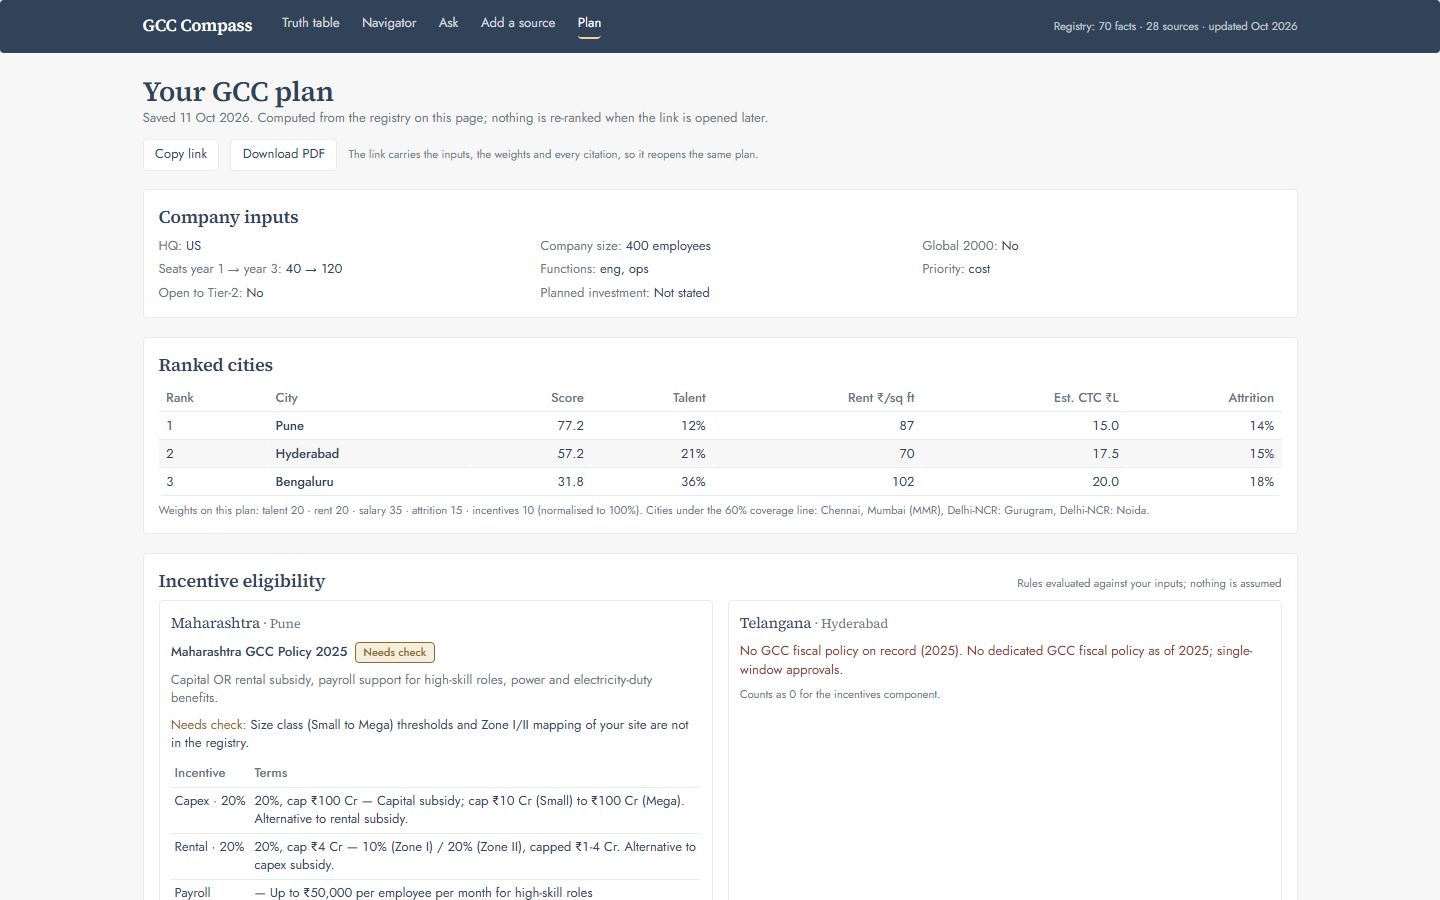
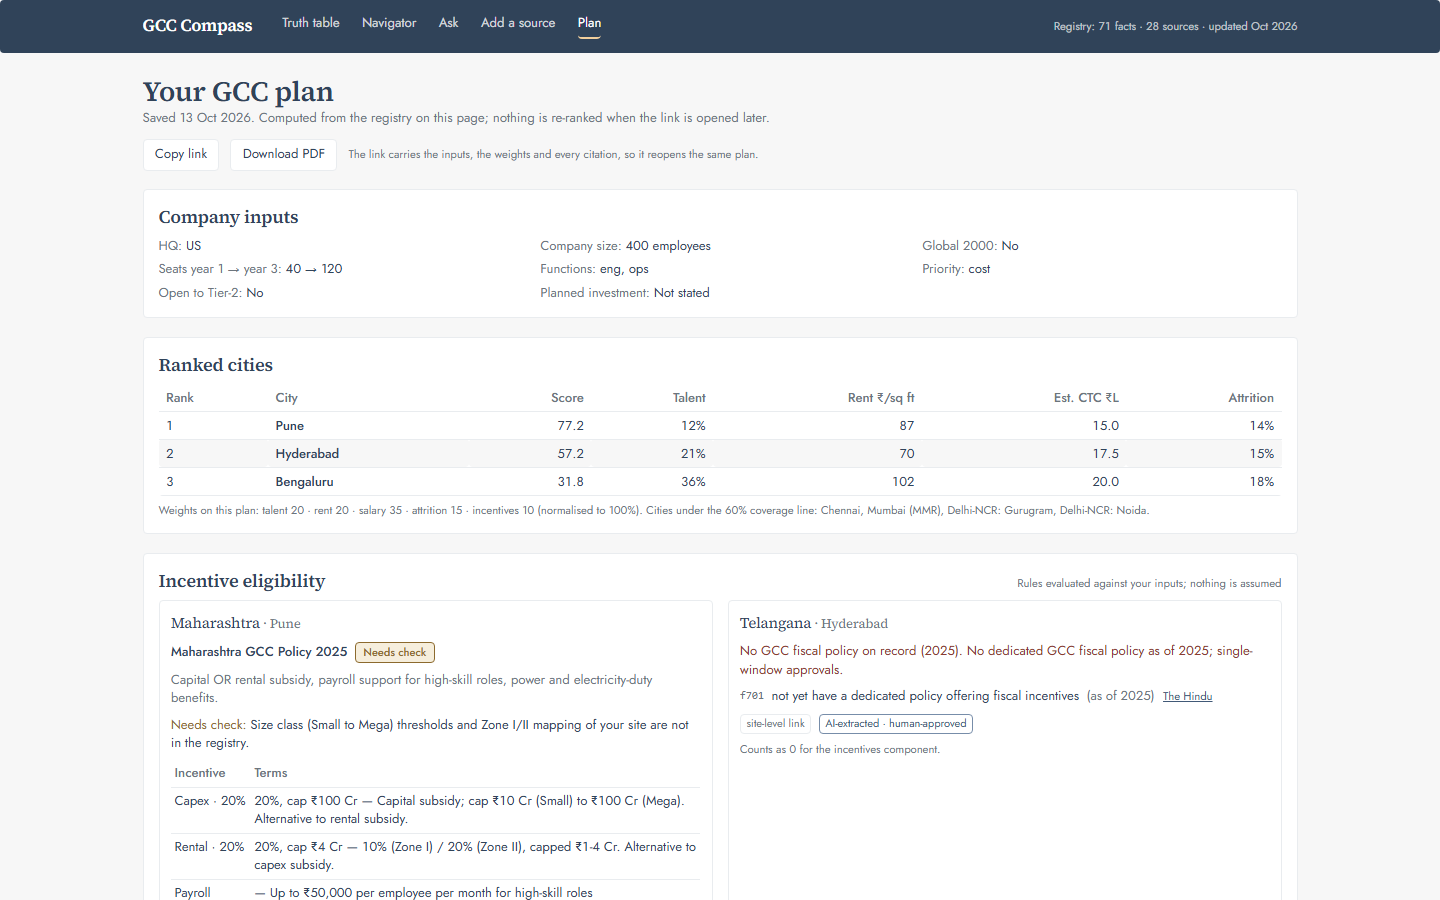
fixes from live browser run: model cooldown + chain budget, preset active state, slider aria-labels, qualitative-metric message, Telangana card lists approved status facts

Changed region(s): [[0.5, 0.7467, 0.8438, 0.84], [0.125, 0.1244, 0.5312, 0.1556]]

diff --git a/lib/llm.ts b/lib/llm.ts
@@ -18,6 +18,12 @@ export function llmConfigured(): boolean {
 
 const TIMEOUT_MS = 40_000;
 
+/**
+ * Total budget for one call across the whole model chain. Without this, a chain
+ * of unhealthy models turns a "wait a minute" into a multi-minute hang.
+ */
+const CHAIN_BUDGET_MS = 25_000;
+
 /** Primary model first, then any fallbacks. */
 function models(): string[] {
   const primary = process.env.LLM_MODEL as string;
@@ -26,6 +32,27 @@ function models(): string[] {
     .map((s) => s.trim())
     .filter(Boolean);
   return [primary, ...extra.filter((m) => m !== primary)];
+}
+
+/**
+ * Short-lived memory of rate-limited or overloaded models, so a request doesn't
+ * pay the whole chain's latency on every call. Cooldowns are per warm instance.
+ */
+const coolingUntil = new Map<string, number>();
+const COOLDOWN_MS: Record<number, number> = { 429: 120_000, 503: 60_000 };
+
+function cooling(model: string): boolean {
+  const until = coolingUntil.get(model);
+  return until !== undefined && Date.now() < until;
+}
+
+function markUnhealthy(model: string, status: number): void {
+  const ms = COOLDOWN_MS[status];
+  if (ms) coolingUntil.set(model, Date.now() + ms);
+}
+
+function markHealthy(model: string): void {
+  coolingUntil.delete(model);
 }
 
 interface ChatOptions {
@@ -52,12 +79,32 @@ export async function chat(system: string, user: string, opts: ChatOptions = {})
   };
   if (opts.json !== false) body.response_format = { type: "json_object" };
 
+  const chain = models();
+  const ordered = [
+    ...chain.filter((m) => !cooling(m)),
+    ...chain.filter((m) => cooling(m)),
+  ];
   let lastError = "";
-  for (const model of models()) {
-    for (let attempt = 0; attempt < 2; attempt++) {
-      if (attempt > 0) await new Promise((r) => setTimeout(r, attempt * 2000));
+  const deadline = Date.now() + CHAIN_BUDGET_MS;
+  for (const model of ordered) {
+    const maxAttempts = cooling(model) ? 1 : 2;
+    for (let attempt = 0; attempt < maxAttempts; attempt++) {
+      if (Date.now() >= deadline) {
+        throw new LLMError(
+          lastError.includes("rate-limited")
+            ? lastError
+            : "The model service is slow right now. Try again in a minute.",
+        );
+      }
+      if (attempt > 0) {
+        const backoff = attempt * 2000;
+        if (Date.now() + backoff >= deadline) continue;
+        await new Promise((r) => setTimeout(r, backoff));
+      }
       const controller = new AbortController();
-      const timer = setTimeout(() => controller.abort(), TIMEOUT_MS);
+      // each attempt is bounded by both its own timeout and the chain's budget
+      const budget = Math.max(1000, Math.min(TIMEOUT_MS, deadline - Date.now()));
+      const timer = setTimeout(() => controller.abort(), budget);
       let res: Response;
       try {
         res = await fetch(`${base}/chat/completions`, {
@@ -87,10 +134,15 @@ export async function chat(system: string, user: string, opts: ChatOptions = {})
         lastError =
           res.status === 429
             ? "The model service is rate-limited right now. Try again in a minute."
-            : `The model service returned ${res.status}.`;
+            : res.status === 503
+              ? "The model service is overloaded right now. Try again in a minute."
+              : `The model service returned ${res.status}.`;
         console.error(`[llm] ${model} attempt ${attempt + 1} -> ${res.status}: ${text.slice(0, 200)}`);
-        // rate limits and transient overload get one more try on this model
-        if (res.status === 429 || res.status === 503) continue;
+        // rate limits and transient overload get one more try, then the model rests
+        if (res.status === 429 || res.status === 503) {
+          markUnhealthy(model, res.status);
+          continue;
+        }
         break;
       }
       const data = (await res.json()) as {
@@ -102,6 +154,7 @@ export async function chat(system: string, user: string, opts: ChatOptions = {})
         console.error(`[llm] ${model} attempt ${attempt + 1} -> empty content`);
         continue;
       }
+      markHealthy(model);
       return content;
     }
   }

diff --git a/components/navigator/EligibilityCards.tsx b/components/navigator/EligibilityCards.tsx
@@ -6,8 +6,9 @@ import { evaluatePolicy } from "@/lib/eligibility";
 import type { NavigatorInputs, Policy } from "@/lib/types";
 import type { RankedCity } from "@/lib/scoring";
 import { Card } from "@/components/ui/table";
-import { StatusPill, UnverifiedBadge, ConfidenceBadge, SiteLinkFlag } from "@/components/ui/badge";
+import { StatusPill, UnverifiedBadge, ConfidenceBadge, SiteLinkFlag, AiExtractedBadge } from "@/components/ui/badge";
 import { LinkButton } from "@/components/ui/button";
+import { factValue } from "@/lib/format";
 
 const INCENTIVE_TYPE_LABELS: Record<string, string> = {
   capex: "Capex",
@@ -83,6 +84,31 @@ export function EligibilityCards({
                 {state?.gcc_policy_status === "active" && (
                   <p className="text-muted">No policy details in the registry yet.</p>
                 )}
+                {(() => {
+                  const statusFacts = reg.factsFor(stateId, "gcc_policy_status");
+                  if (statusFacts.length === 0) return null;
+                  return (
+                    <ul className="mt-2 space-y-1">
+                      {statusFacts.map((f) => {
+                        const src = reg.source(f.source_id);
+                        return (
+                          <li key={f.id} className="text-[13px] flex flex-wrap items-center gap-2">
+                            <span className="font-mono text-[11px] text-muted">{f.id}</span>
+                            <span>{f.value_text ?? factValue(f)}</span>
+                            <span className="text-muted">(as of {f.as_of})</span>
+                            {src && (
+                              <LinkButton href={src.url} variant="ghost" className="px-0 py-0 text-xs">
+                                {src.publisher}
+                              </LinkButton>
+                            )}
+                            {src?.url_precision === "domain_only" && <SiteLinkFlag />}
+                            {f.extracted_by === "ai" && <AiExtractedBadge />}
+                          </li>
+                        );
+                      })}
+                    </ul>
+                  );
+                })()}
                 <p className="text-xs text-muted mt-2">
                   Counts as 0 for the incentives component.
                 </p>

diff --git a/components/navigator/NavigatorResults.tsx b/components/navigator/NavigatorResults.tsx
@@ -175,19 +175,21 @@ function RankRow({
       </Td>
       <Td>
         <span className="flex h-3 w-40 overflow-hidden border border-rule" title={scoreTitle(r, w)}>
-          {COMPONENTS.map((k) => {
-            const x = r.components[k];
-            if (x === null) return null;
-            return (
-              <span
-                key={k}
-                style={{
-                  width: `${w[k] * x * 100}%`,
-                  background: COMPONENT_COLOURS[k],
-                }}
-              />
-            );
-          })}
+        {COMPONENTS.map((k) => {
+          const x = r.components[k];
+          if (x === null) return null;
+          const pct = w[k] * x;
+          if (pct <= 0) return null;
+          return (
+            <span
+              key={k}
+              style={{
+                width: `${pct * 100}%`,
+                background: COMPONENT_COLOURS[k],
+              }}
+            />
+          );
+        })}
         </span>
       </Td>
       <Td numeric>{r.raw.talent === null ? "—" : `${r.raw.talent}%`}</Td>
@@ -276,7 +278,7 @@ function WeightSliders({
               id={`w-${k}`}
               value={weights[k]}
               onChange={(v) => onChange({ ...weights, [k]: v })}
-              aria-label={COMPONENT_LABELS[k]}
+              ariaLabel={COMPONENT_LABELS[k]}
             />
             <span className="w-16 text-right text-sm tabular-nums">
               {Math.round(norm[k] * 100)}%

diff --git a/components/TruthView.tsx b/components/TruthView.tsx
@@ -228,7 +228,14 @@ export function TruthView({ presets }: { presets: TruthPreset[] }) {
       )}
 
       {bars.length === 0 ? (
-        <EmptyState>No facts for this metric yet. Add a source.</EmptyState>
+        tableFacts.length > 0 ? (
+          <Card className="py-4 text-sm text-muted">
+            No numeric figures for this metric — every fact here is published as words, so the table
+            below lists them all.
+          </Card>
+        ) : (
+          <EmptyState>No facts for this metric yet. Add a source.</EmptyState>
+        )
       ) : (
         <Card className="py-4">
           <div ref={chartRef} style={{ height: bars.length * 30 + 48 }} className="overflow-x-auto">

diff --git a/components/ui/slider.tsx b/components/ui/slider.tsx
@@ -11,6 +11,7 @@ export function Slider({
   value,
   onChange,
   className,
+  ariaLabel,
 }: {
   id?: string;
   min?: number;
@@ -19,6 +20,7 @@ export function Slider({
   value: number;
   onChange: (v: number) => void;
   className?: string;
+  ariaLabel?: string;
 }) {
   return (
     <input
@@ -28,6 +30,7 @@ export function Slider({
       max={max}
       step={step}
       value={value}
+      aria-label={ariaLabel}
       onChange={(e) => onChange(Number(e.target.value))}
       className={cn("w-full h-1.5 bg-rule rounded appearance-none cursor-pointer", className)}
       style={{

diff --git a/app/navigator/page.tsx b/app/navigator/page.tsx
@@ -37,6 +37,8 @@ export default function NavigatorView() {
   const onPreset = (p: NavigatorInputs["priority"]) => {
     patch({ priority: p });
     setWeights(PRESET_WEIGHTS[p]);
+    // the shortlist on screen is the submitted snapshot, so its priority moves too
+    setSubmitted((prev) => (prev ? { ...prev, priority: p } : prev));
   };
 
   const save = () => {
